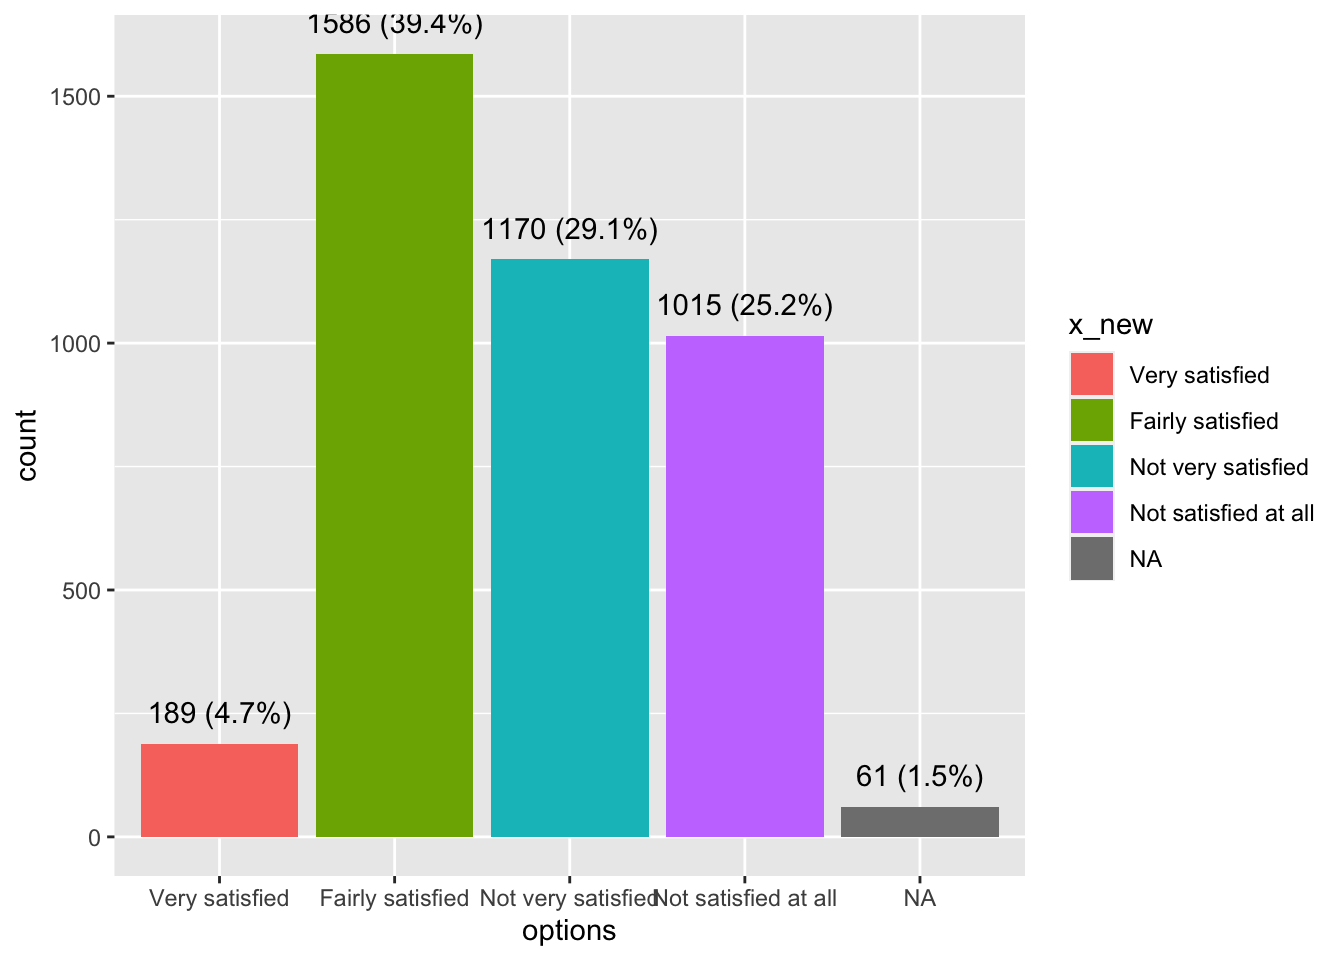
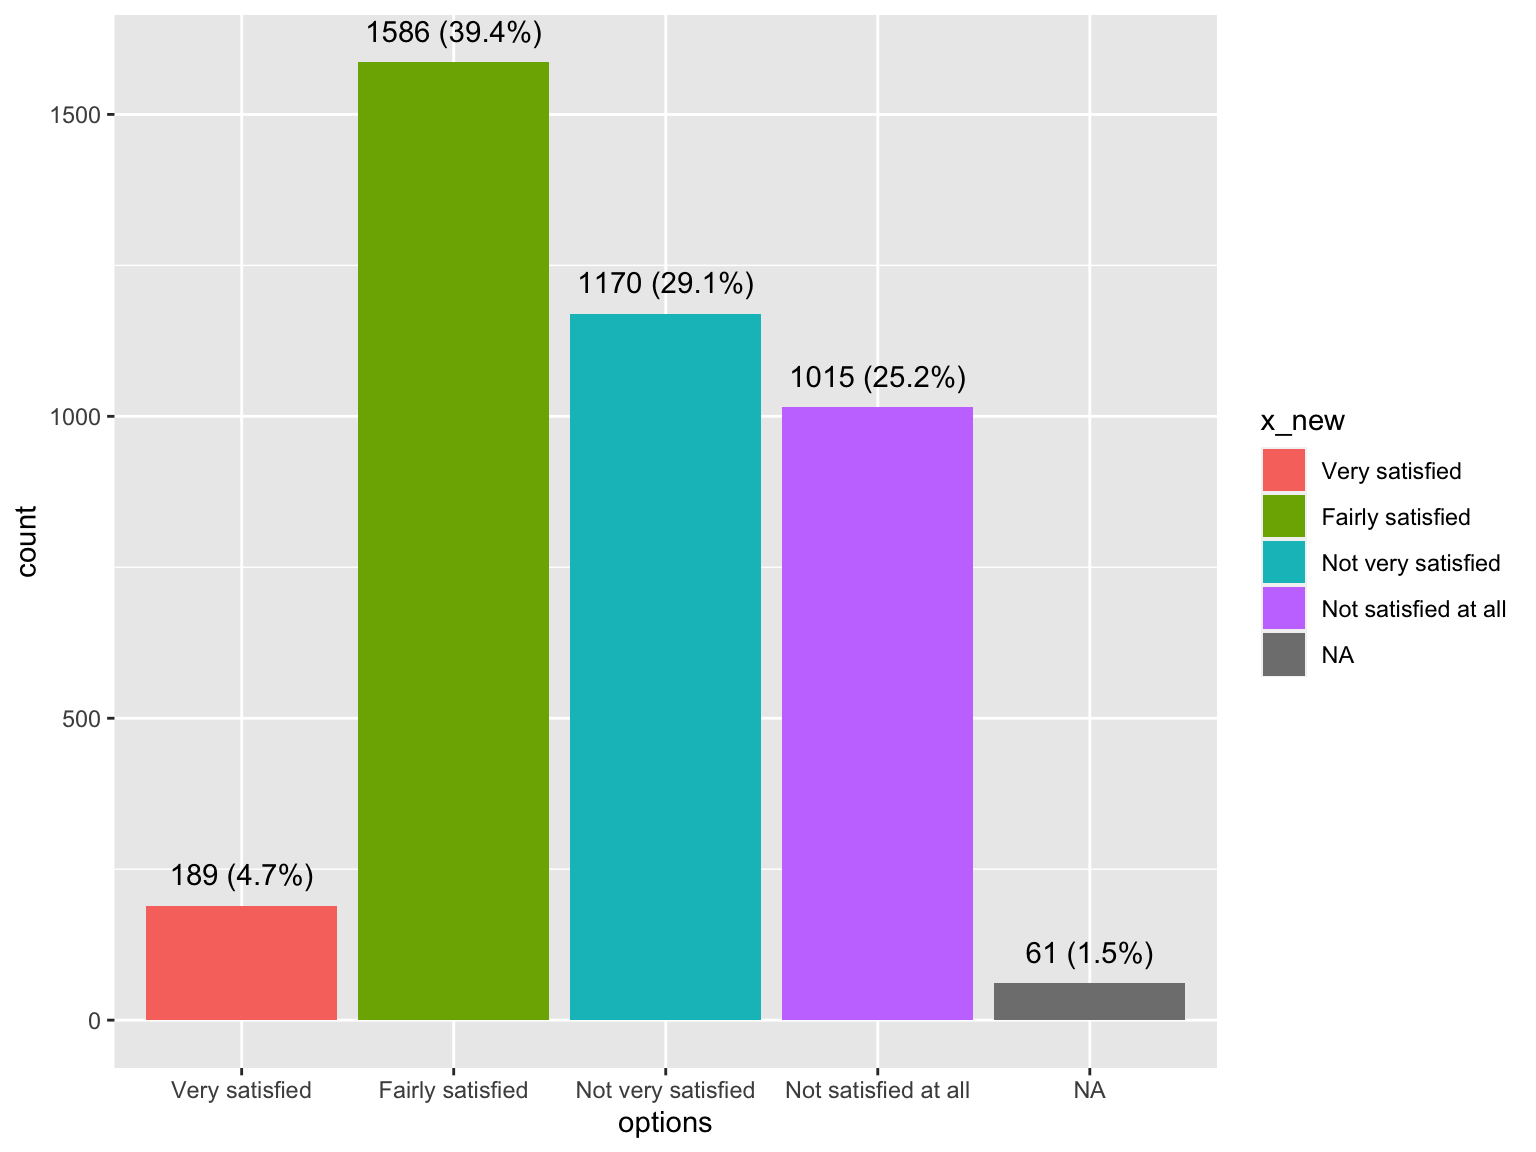
First commit

diff --git a/public/2020/09/24/problem-set-1/index.html b/public/2020/09/24/problem-set-1/index.html
@@ -118,7 +118,7 @@ The dataset contains the numeric code of the resopnses to the quenstionaire by t
 <p>-9 - Don’t know</p>
 </blockquote>
 <p>I used package <code>cesR</code>(<span class="citation">Hodgetts and Alexander (2020)</span>) to download dataset and <code>tidyverse</code>(<span class="citation">Wickham et al. (2019)</span>) to process data as well as plotting. The result is shown blow.</p>
-<p><img src="/post/2020-09-24-problem-set-1_files/figure-html/unnamed-chunk-3-1.png" width="672" /></p>
+<p><img src="/post/2020-09-24-problem-set-1_files/figure-html/unnamed-chunk-3-1.png" width="768" /></p>
 </div>
 <div id="discussion" class="section level1">
 <h1>Discussion</h1>
@@ -130,7 +130,7 @@ The dataset contains the numeric code of the resopnses to the quenstionaire by t
 </div>
 <div id="reference" class="section level1">
 <h1>Reference</h1>
-<p>Supporting code and data availiable at <a href="https://github.com/cuijing7/STA304/blob/master/content/post/2020-09-24-problem-set-1.Rmd" class="uri">https://github.com/cuijing7/STA304/blob/master/content/post/2020-09-24-problem-set-1.Rmd</a></p>
+<p>Supporting code and data availiable at <a href="https://github.com/cuijing7/STA304/blob/master/content/post/support_code.Rmd" class="uri">https://github.com/cuijing7/STA304/blob/master/content/post/support_code.Rmd</a></p>
 <p>Stephenson, Laura B; Harell, Allison; Rubenson, Daniel; Loewen, Peter John, 2020, “2019 Canadian Election Study - Phone Survey Technical Report.pdf”, 2019 Canadian Election Study - Phone Survey, <a href="https://doi.org/10.7910/DVN/8RHLG1/1PBGR3" class="uri">https://doi.org/10.7910/DVN/8RHLG1/1PBGR3</a>, Harvard Dataverse, V1</p>
 <p>Stephenson, Laura B; Harell, Allison; Rubenson, Daniel; Loewen, Peter John, 2020, “2019 Canadian Election Study - Phone Survey”, <a href="https://doi.org/10.7910/DVN/8RHLG1" class="uri">https://doi.org/10.7910/DVN/8RHLG1</a>, Harvard Dataverse, V1, UNF:6:eyR28qaoYlHj9qwPWZmmVQ== [fileUNF]</p>
 <div id="refs" class="references">

diff --git a/content/post/2020-09-24-problem-set-1.html b/content/post/2020-09-24-problem-set-1.html
@@ -53,7 +53,7 @@ The dataset contains the numeric code of the resopnses to the quenstionaire by t
 <p>-9 - Don’t know</p>
 </blockquote>
 <p>I used package <code>cesR</code>(<span class="citation">Hodgetts and Alexander (2020)</span>) to download dataset and <code>tidyverse</code>(<span class="citation">Wickham et al. (2019)</span>) to process data as well as plotting. The result is shown blow.</p>
-<p><img src="/post/2020-09-24-problem-set-1_files/figure-html/unnamed-chunk-3-1.png" width="672" /></p>
+<p><img src="/post/2020-09-24-problem-set-1_files/figure-html/unnamed-chunk-3-1.png" width="768" /></p>
 </div>
 <div id="discussion" class="section level1">
 <h1>Discussion</h1>
@@ -65,7 +65,7 @@ The dataset contains the numeric code of the resopnses to the quenstionaire by t
 </div>
 <div id="reference" class="section level1">
 <h1>Reference</h1>
-<p>Supporting code and data availiable at <a href="https://github.com/cuijing7/STA304/blob/master/content/post/2020-09-24-problem-set-1.Rmd" class="uri">https://github.com/cuijing7/STA304/blob/master/content/post/2020-09-24-problem-set-1.Rmd</a></p>
+<p>Supporting code and data availiable at <a href="https://github.com/cuijing7/STA304/blob/master/content/post/support_code.Rmd" class="uri">https://github.com/cuijing7/STA304/blob/master/content/post/support_code.Rmd</a></p>
 <p>Stephenson, Laura B; Harell, Allison; Rubenson, Daniel; Loewen, Peter John, 2020, “2019 Canadian Election Study - Phone Survey Technical Report.pdf”, 2019 Canadian Election Study - Phone Survey, <a href="https://doi.org/10.7910/DVN/8RHLG1/1PBGR3" class="uri">https://doi.org/10.7910/DVN/8RHLG1/1PBGR3</a>, Harvard Dataverse, V1</p>
 <p>Stephenson, Laura B; Harell, Allison; Rubenson, Daniel; Loewen, Peter John, 2020, “2019 Canadian Election Study - Phone Survey”, <a href="https://doi.org/10.7910/DVN/8RHLG1" class="uri">https://doi.org/10.7910/DVN/8RHLG1</a>, Harvard Dataverse, V1, UNF:6:eyR28qaoYlHj9qwPWZmmVQ== [fileUNF]</p>
 <div id="refs" class="references">

diff --git a/public/1/01/01/support-code/index.html b/public/1/01/01/support-code/index.html
@@ -62,7 +62,7 @@
 
   <article class="article">
     
-    <span class="article-duration">1 min read</span>
+    <span class="article-duration">2 min read</span>
     
 
     <h1 class="article-title">support code</h1>
@@ -85,10 +85,24 @@
 ## LINK: https://dataverse.harvard.edu/dataset.xhtml?persistentId=doi:10.7910/DVN/8RHLG1</code></pre>
 <pre class="r"><code>data &lt;- ces2019_phone</code></pre>
 <pre class="r"><code>new_data &lt;- na.omit(data[, &quot;q13&quot;])
-glimpse(new_data)</code></pre>
+tibble(glimpse(new_data))</code></pre>
 <pre><code>## Rows: 4,021
 ## Columns: 1
 ## $ q13 &lt;dbl+lbl&gt; 2, 2, 2, 2, 4, 4, 4, 2, 3, 2, 3, 3, 2, 2, 1, 2, 2, 2, 2, 2, 2…</code></pre>
+<pre><code>## # A tibble: 4,021 x 1
+##                             q13
+##                       &lt;dbl+lbl&gt;
+##  1 2 [(2) Fairly satisfied]    
+##  2 2 [(2) Fairly satisfied]    
+##  3 2 [(2) Fairly satisfied]    
+##  4 2 [(2) Fairly satisfied]    
+##  5 4 [(4) Not satisfied at all]
+##  6 4 [(4) Not satisfied at all]
+##  7 4 [(4) Not satisfied at all]
+##  8 2 [(2) Fairly satisfied]    
+##  9 3 [(3) Not very satisfied]  
+## 10 2 [(2) Fairly satisfied]    
+## # … with 4,011 more rows</code></pre>
 <pre class="r"><code>x &lt;- unlist(new_data, use.names = FALSE)
 x_new &lt;- &quot;&quot;
 
@@ -107,7 +121,7 @@ x_new &lt;- factor(x_new, levels = c(&quot;Very satisfied&quot;, &quot;Fairly sa
     label = sprintf(&#39;%s (%.1f%%)&#39;, after_stat(count), after_stat(count / sum(count) * 100))),
     stat=&#39;count&#39;, 
     vjust = -1)</code></pre>
-<p><img src="/post/support_code_files/figure-html/plot-1.png" width="672" /></p>
+<p><img src="/post/support_code_files/figure-html/plot-1.png" width="768" /></p>
 
     </div>
   </article>

diff --git a/content/post/support_code.html b/content/post/support_code.html
@@ -17,10 +17,24 @@ output: html_document
 ## LINK: https://dataverse.harvard.edu/dataset.xhtml?persistentId=doi:10.7910/DVN/8RHLG1</code></pre>
 <pre class="r"><code>data &lt;- ces2019_phone</code></pre>
 <pre class="r"><code>new_data &lt;- na.omit(data[, &quot;q13&quot;])
-glimpse(new_data)</code></pre>
+tibble(glimpse(new_data))</code></pre>
 <pre><code>## Rows: 4,021
 ## Columns: 1
 ## $ q13 &lt;dbl+lbl&gt; 2, 2, 2, 2, 4, 4, 4, 2, 3, 2, 3, 3, 2, 2, 1, 2, 2, 2, 2, 2, 2…</code></pre>
+<pre><code>## # A tibble: 4,021 x 1
+##                             q13
+##                       &lt;dbl+lbl&gt;
+##  1 2 [(2) Fairly satisfied]    
+##  2 2 [(2) Fairly satisfied]    
+##  3 2 [(2) Fairly satisfied]    
+##  4 2 [(2) Fairly satisfied]    
+##  5 4 [(4) Not satisfied at all]
+##  6 4 [(4) Not satisfied at all]
+##  7 4 [(4) Not satisfied at all]
+##  8 2 [(2) Fairly satisfied]    
+##  9 3 [(3) Not very satisfied]  
+## 10 2 [(2) Fairly satisfied]    
+## # … with 4,011 more rows</code></pre>
 <pre class="r"><code>x &lt;- unlist(new_data, use.names = FALSE)
 x_new &lt;- &quot;&quot;
 
@@ -39,4 +53,4 @@ x_new &lt;- factor(x_new, levels = c(&quot;Very satisfied&quot;, &quot;Fairly sa
     label = sprintf(&#39;%s (%.1f%%)&#39;, after_stat(count), after_stat(count / sum(count) * 100))),
     stat=&#39;count&#39;, 
     vjust = -1)</code></pre>
-<p><img src="/post/support_code_files/figure-html/plot-1.png" width="672" /></p>
+<p><img src="/post/support_code_files/figure-html/plot-1.png" width="768" /></p>
